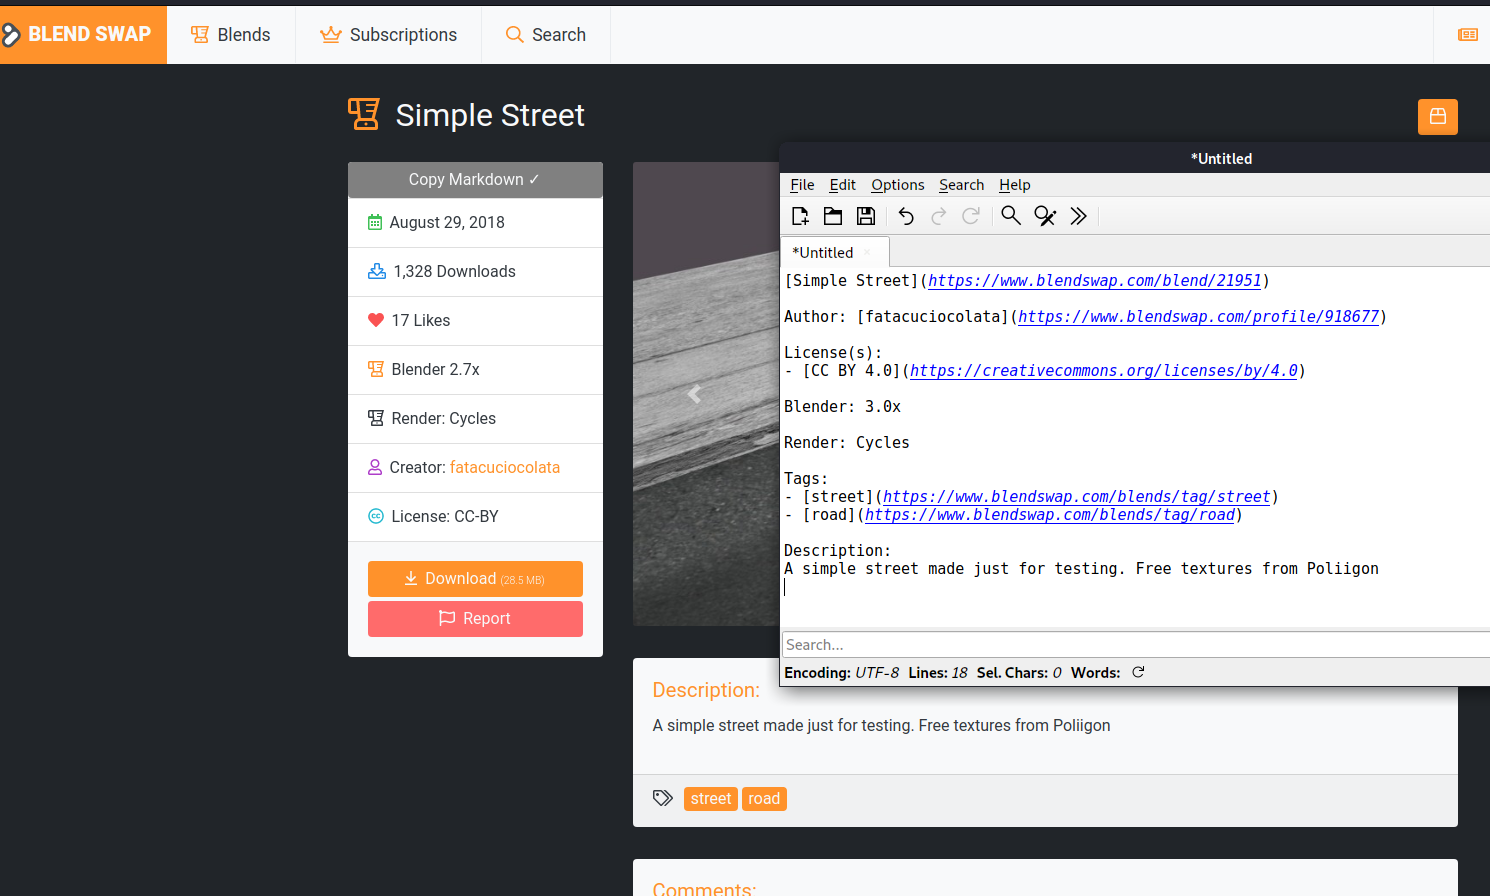
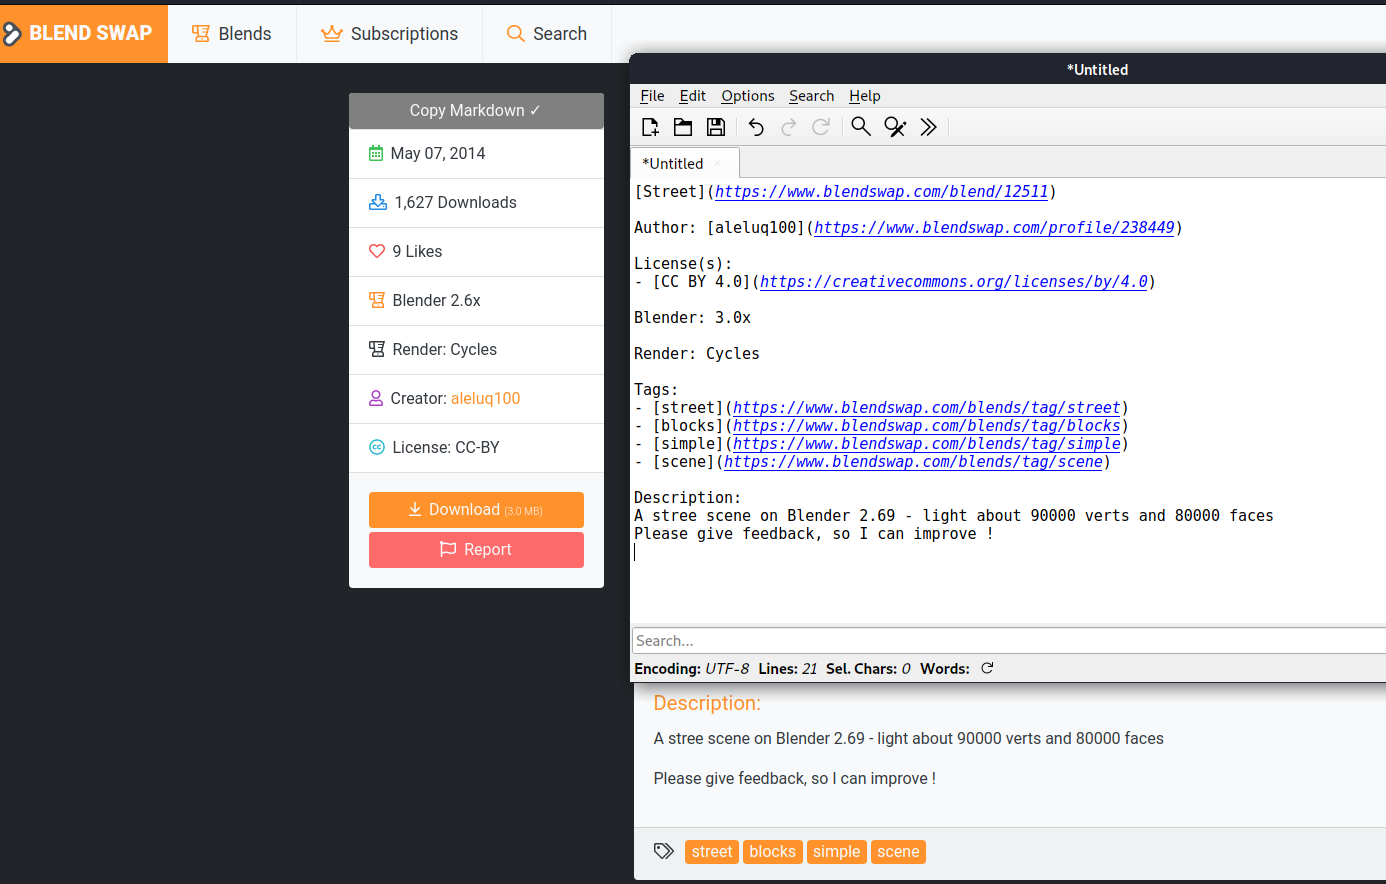
Update the screenshot and description.

diff --git a/readme.md b/readme.md
@@ -1,5 +1,10 @@
 # blendSwapAttributionMaker
 Copy information from a Blend Swap model page to the clipboard for easy attribution!
 
+This script adds the "Copy Markdown" button.
+
+After clicking the button, go to another program such as a text editor as shown then press Ctrl+V or click Edit, Paste to get the text shown in the screenshot.
+
 ![screenshot of a Blend Swap model page and the resulting Markdown in FeatherPad](screenshot.png)
 *This script is not endorsed by the artist nor site in the screenshot.*
+
